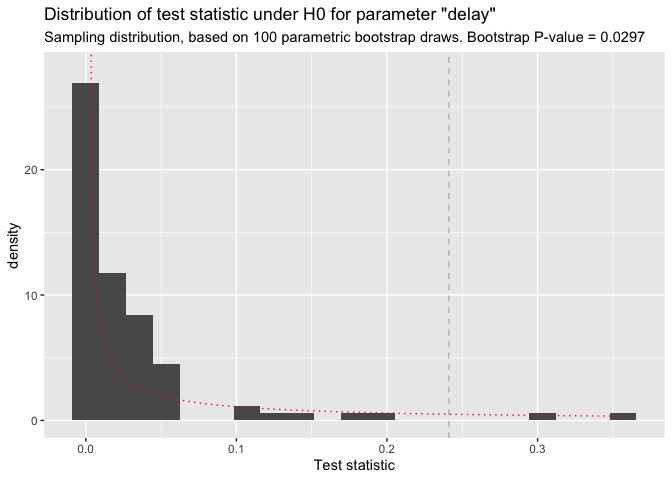
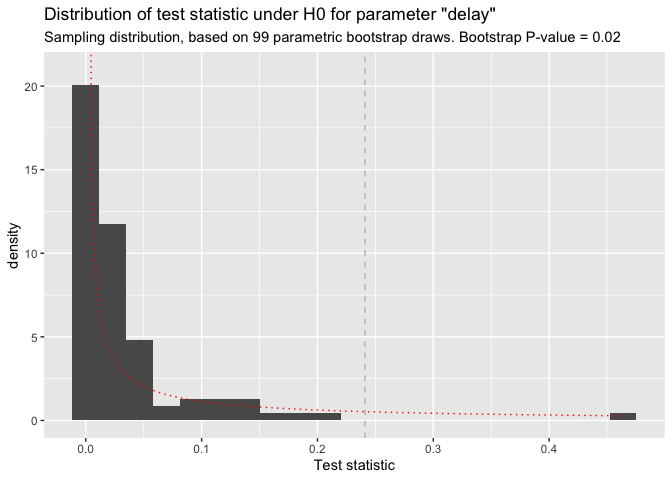
rename: MLE => MLE0 to remind that it refers to the standard MLE that is not appropriate for delay models. collect roxygen import statements. update README to reflect MPSE name-change. version bump to v1.1.9.9007

diff --git a/README.md b/README.md
@@ -12,11 +12,12 @@ delay varies for different treatments or groups. While parametric delay
 models, like the three-parameter Weibull distribution, might adequately
 describe this process the estimation of delay via standard maximum
 likelihood is severely biased in small samples. The R-package `incubate`
-employs an alternative estimation method called *maximum spacing
-estimation (MSE)* to estimate delay and other parameters in a one or two
-group setting. Building on MSE, `incubate` can
+employs an alternative estimation method called *maximum product of
+spacings estimation (MPSE)* to estimate delay and other parameters in a
+one or two group setting. Building on MPSE, `incubate` can
 
-1.  calculate confidence intervals for these model parameters *and*
+1.  calculate bootstrap confidence intervals for these model parameters
+    *and*
 2.  compare the survival experience of two groups within this
     statistical model with respect to model parameters.
 
@@ -27,7 +28,7 @@ special case of the delayed Weibull distribution. We draw random samples
 corresponding to two groups with different model parameters.
 
 ``` r
-library(incubate)
+library("incubate")
 
 # simulate data from exponential distribution with delay
 x <- rexp_delayed(n = 13, delay = 1.0, rate = 0.8)
@@ -52,9 +53,9 @@ comparisons in a two group setting.
 ``` r
 # confidence interval for delay-parameters
 confint(fm, parm = c('delay.x', 'delay.y'))
-#>            2.5%  97.5%
-#> delay.x 0.85443 1.2627
-#> delay.y 1.37808 1.9318
+#>           2.5%  97.5%
+#> delay.x 0.8224 1.1097
+#> delay.y 1.3684 1.7700
 
 # test on difference in delay
 # for real applications use R>=1000 bootrap draws

diff --git a/NEWS.md b/NEWS.md
@@ -1,9 +1,11 @@
-# incubate 1.1.9.9001
+# incubate 1.1.9.9007
 * development version
 * check for minimal size of data and fail early if not enough observations
 * test_diff: test-statistic gets lower bound of 0 enforced (a restricted model can not have better fit than unrestricted model)
 * include simulation R-scripts in package (under inst/scripts/ folder)
-* rename 'MSE' to 'MPSE' (as the term MSE has already other meanings)
+* rename methods:
+    * 'MSE' => 'MPSE' (as the term MSE has already other meanings)
+    * 'MLE' => 'MLE0' (to indicate that this is the standard MLE that is not appropriate for delay models)
 
 
 # incubate 1.1.9
